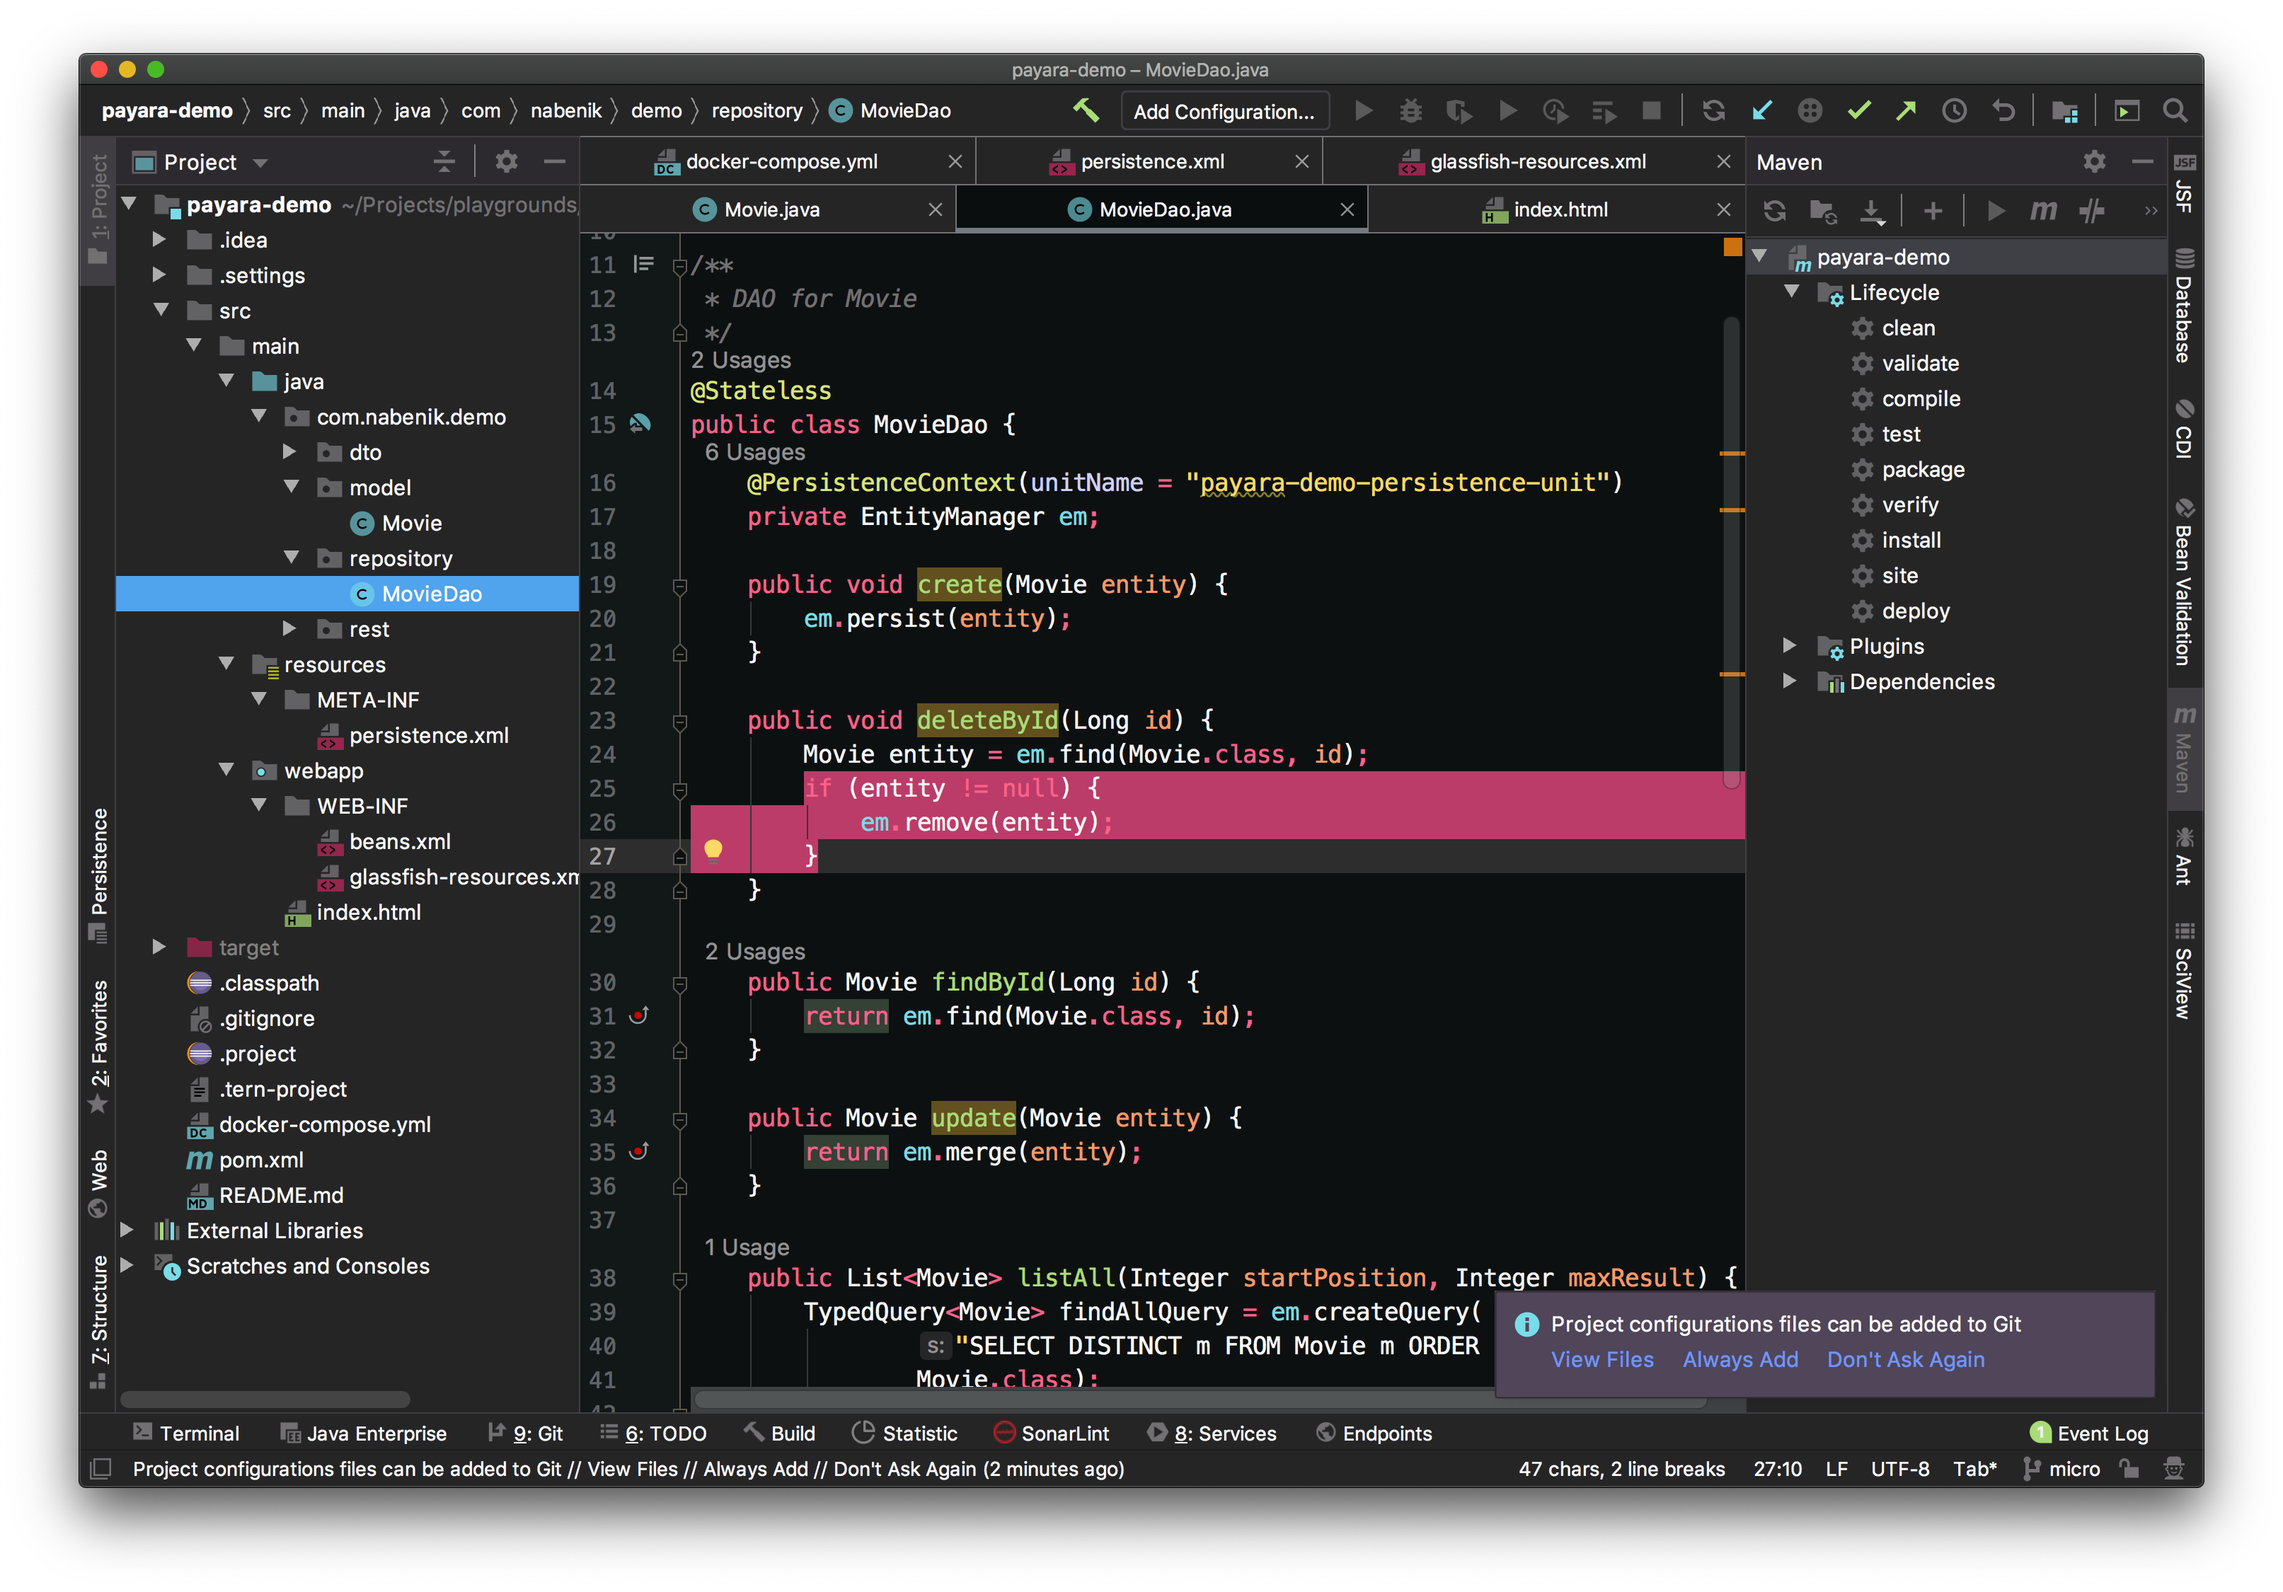
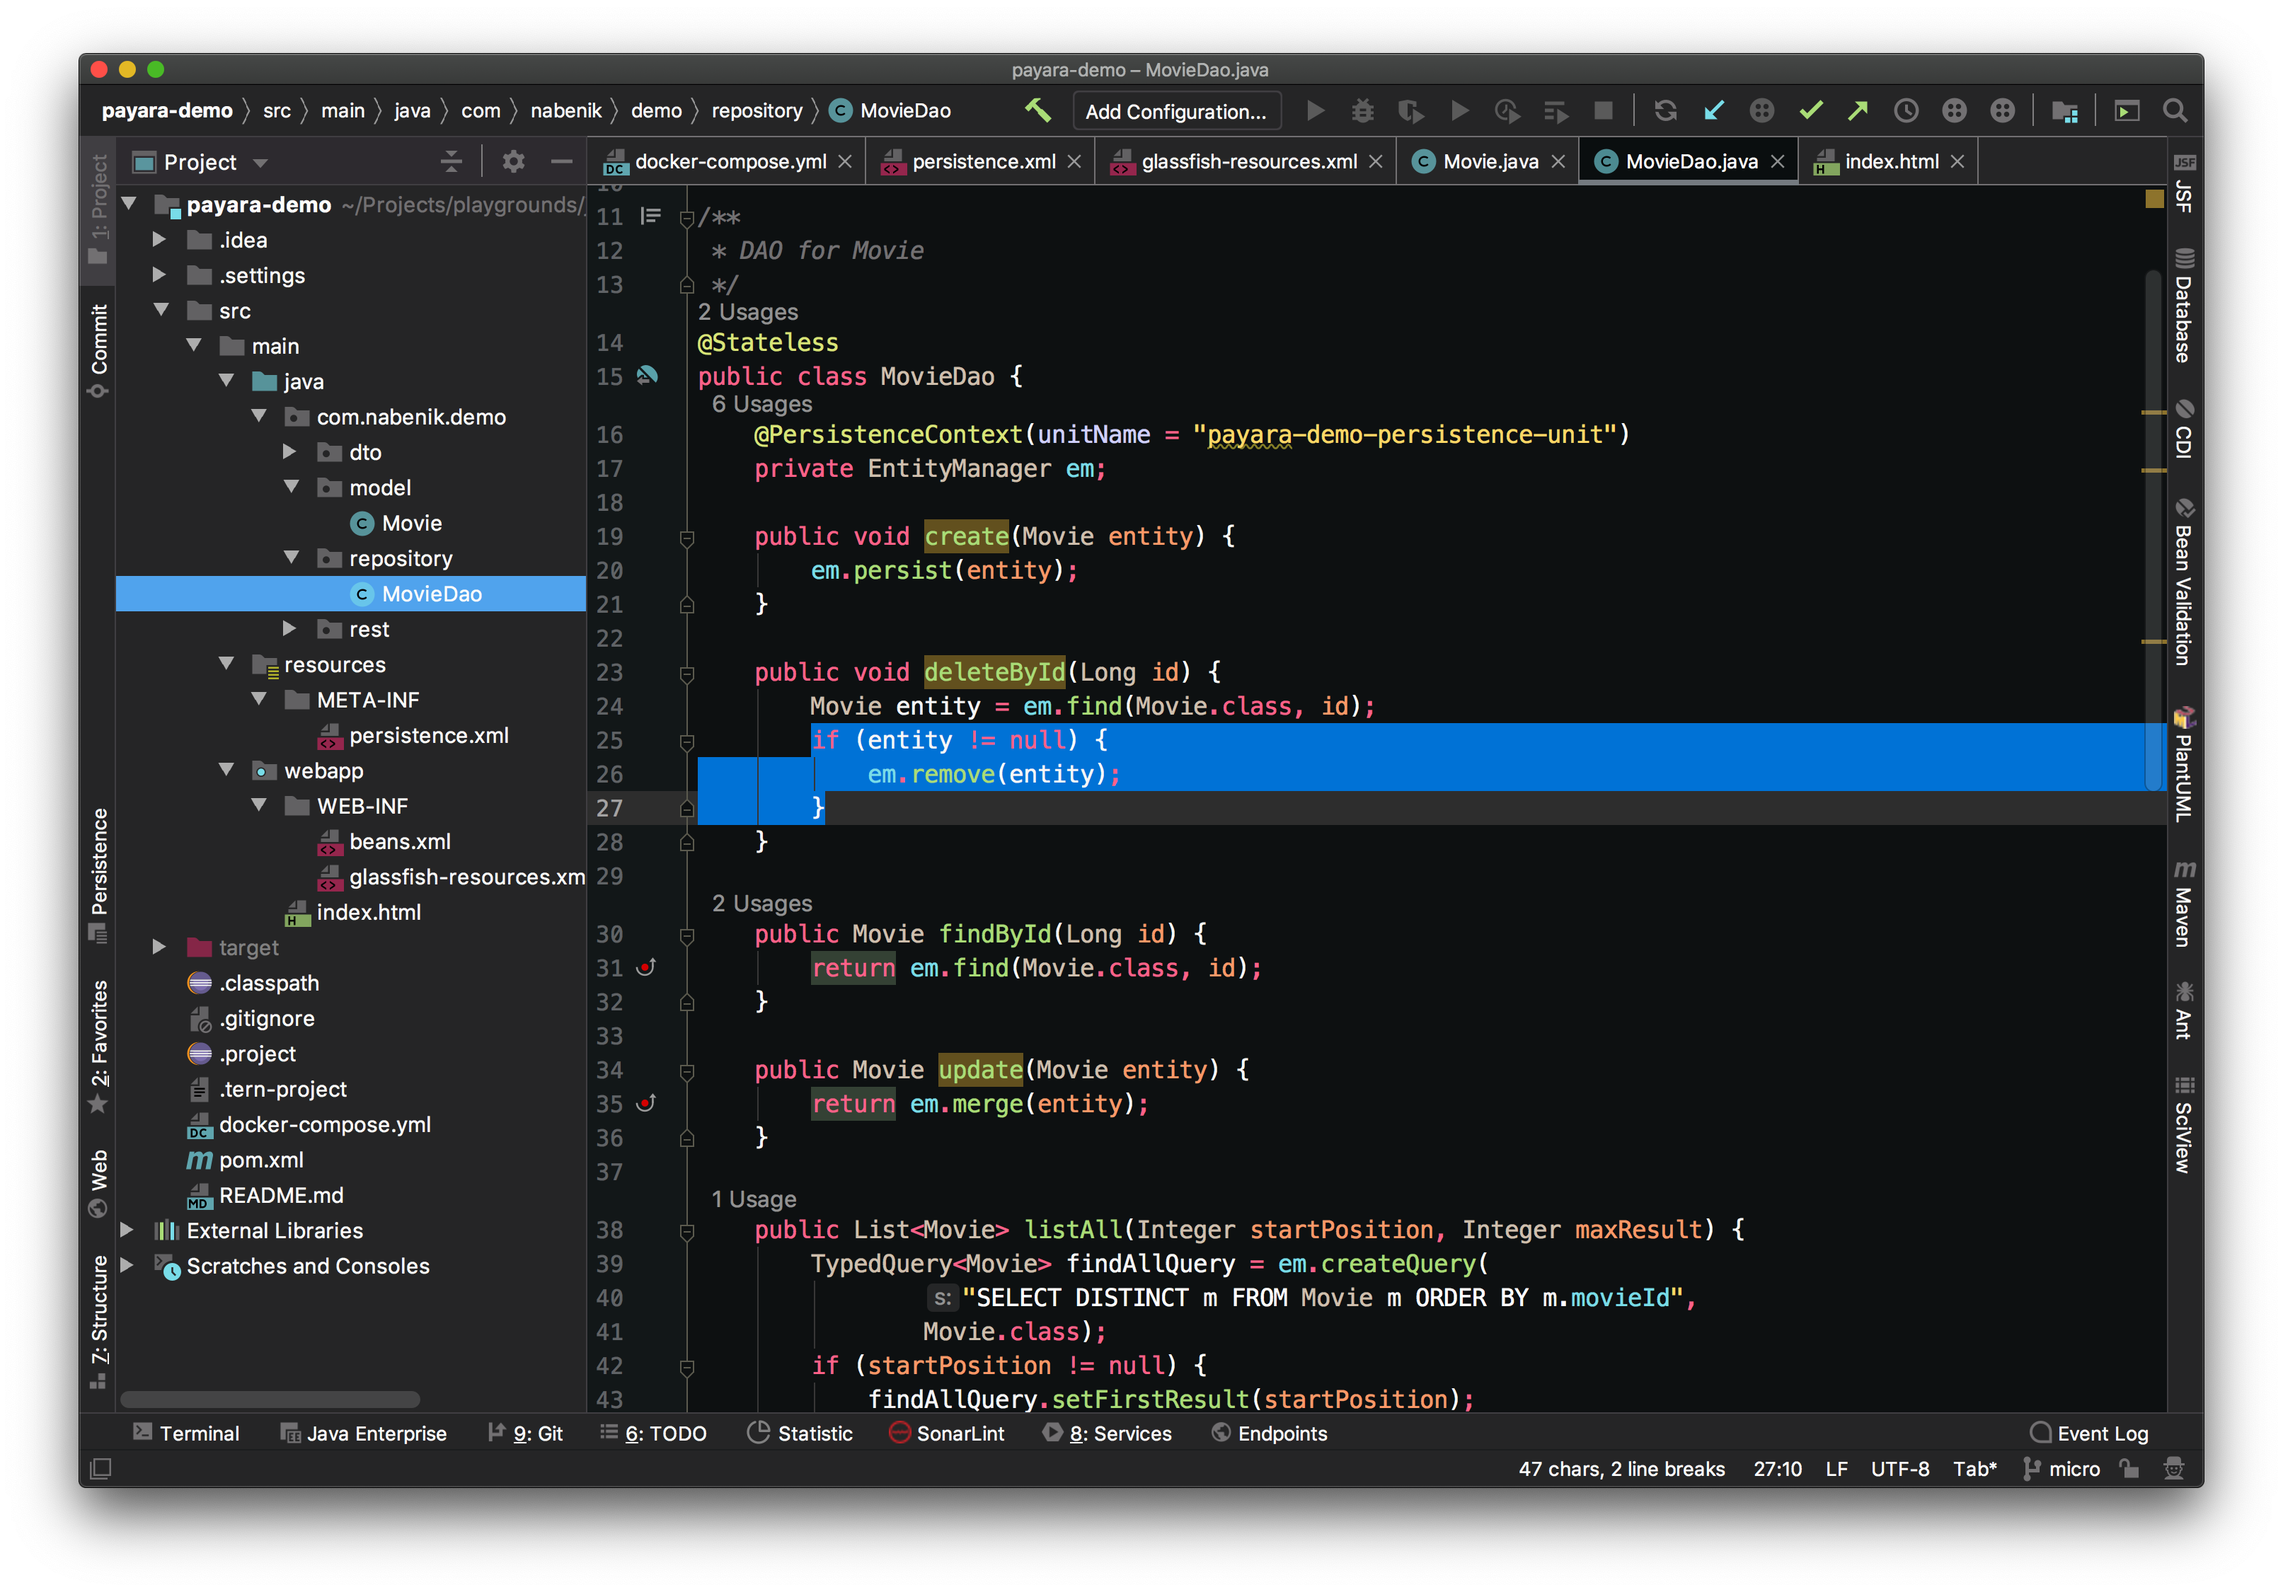
major color changes + bugfixes
selection background: blue
documentation background: very dark
removed background from keywords (bugfix)
use default color for js local variables
text search result: green, yellow
warning attributes error stripe color: more similar to background color
static method: yellow
default interface: light brown
default class: light brown
default function call: green

Changed region(s): [[0.062, 0.0622, 0.9919, 0.9333], [0.527, 0.2489, 0.713, 0.3111]]

diff --git a/README.md b/README.md
@@ -7,35 +7,24 @@ and by [bmikailis Monocai Theme](https://github.com/bmikaili/intellij-monocai-th
 
 ![](preview.png)
 
-## How to adjust this theme to your needs
+## How to adjust this theme to your preferences
 
-Look into [xndlnk_monokai.theme.json](resources/META-INF/xndlnk_monokai.theme.json)
-and [xndlnk_monokai.xml](resources/META-INF/xndlnk_monokai.xml) to change the colors.
+- Clone this repo
+- Look into [xndlnk_monokai.theme.json](resources/META-INF/xndlnk_monokai.theme.json)
+  and [xndlnk_monokai.xml](resources/META-INF/xndlnk_monokai.xml) and change colors directly.
+- Or make color adjustments in your IntelliJ instance via `Preferences...`
+    - Export your color scheme via `Editor / Color Scheme` to an `.icls` file
+    - Open that `.icls` file and copy XML entries to `xndlnk_monokai.xml`
+- Deploy your changes as a plugin:
+    - From the main menu invoke `Build / Prepare Plugin Module ... For Deployment`
+    - Goto `Preferences / Plugins / xndlnk-monokai / Uninstall` and restart IntelliJ
+    - Goto `Preferences / Plugins / Install plugin from disk` and select `xndlnk-monokai.jar` file
+    - Apply changes
 
-Regarding the possible color keys for UI elements, IntelliJ is missing a clear documentation.
+## Color documentation
+
+I could not find a good documentation of possible color keys for UI elements.
 
 Some color references I found:
 - [Customizing UI Theme](http://www.jetbrains.org/intellij/sdk/docs/reference_guide/ui_themes/themes_customize.html)
 - [All keys from IntelliJ Platform and custom UI components](https://upsource.jetbrains.com/idea-ce/file/idea-ce-40e5005d02df57f58ac2d498867446c43d61101f/platform/platform-resources/src/themes/metadata/IntelliJPlatform.themeMetadata.json)
-
-### How to install
-
-Goto `Preferences / Plugins / Install plugin from disk` and select `xndlnk-monokai.jar` file
-
-### How to change colors
-
-1. Modify the json or xml file.
-2. Make color adjustments in your IntelliJ instance via `Preferences...`
-3. Export your color scheme via `Editor / Color Scheme` to an `.icls` file
-4. Open that `.icls` file and copy XML entries to `xndlnk_monokai.xml`
-
-### Some Color Hints
-
-- the red/pink editor text selection color: `SELECTION_BACKGROUND` in xml file
-
-### How to deploy your changes
-
-1. From the main menu invoke `Build / Prepare Plugin Module ... For Deployment`
-2. Goto `Preferences / Plugins / xndlnk-monokai / Uninstall` and restart IntelliJ
-3. Goto `Preferences / Plugins / Install plugin from disk` and select `xndlnk-monokai.jar` file
-4. Apply changes
